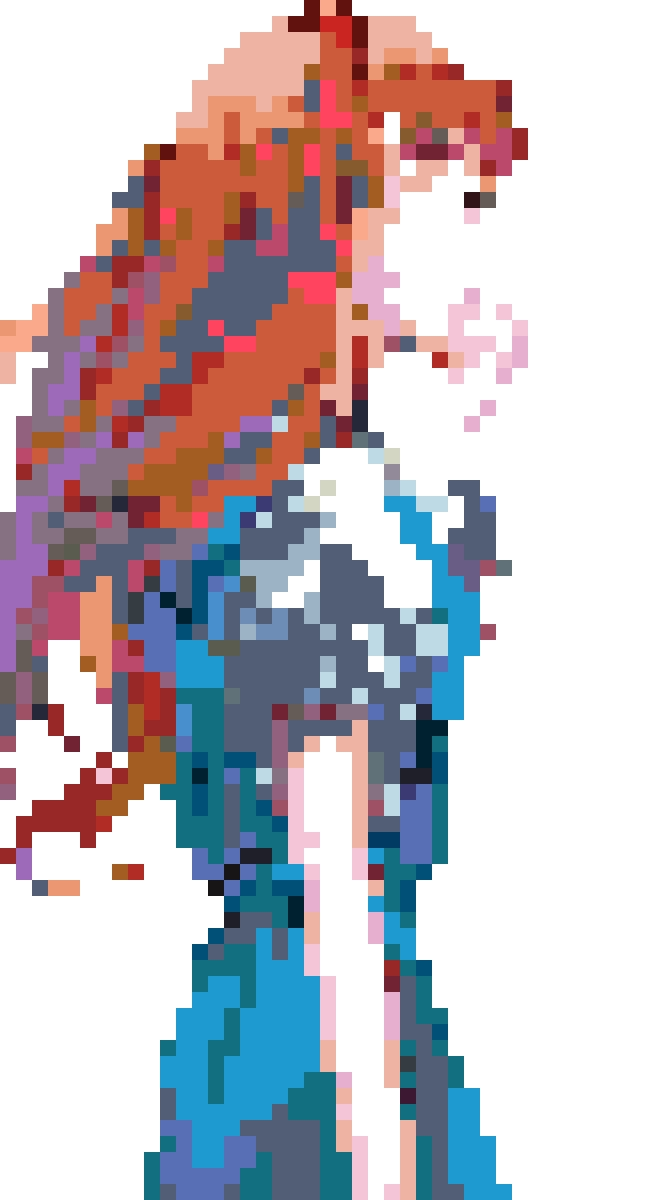
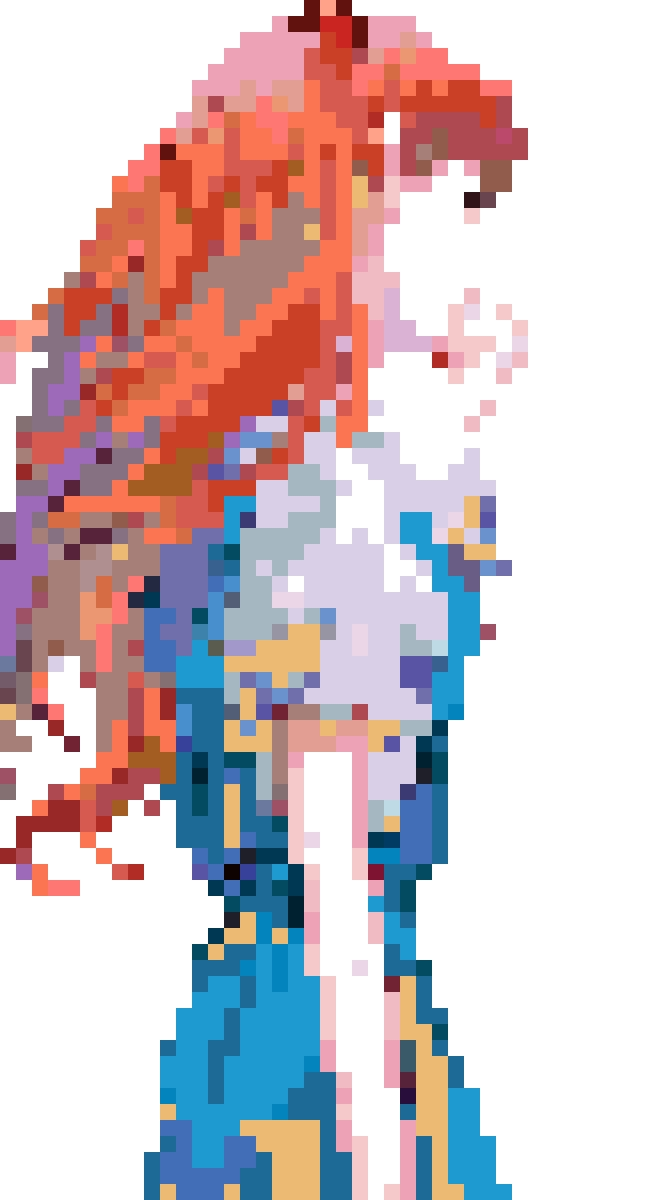
add more color samples; add comparison part in the DEMO

diff --git a/README.md b/README.md
@@ -37,18 +37,18 @@ Image via
 [Amoc](https://www.pixiv.net/en/artworks/81363989)
 , PIXIV ID: 4093391
 
-###### default setting
-![Default setting](./DEMO/default.jpg)
-###### bins = 4
-![bins = 4](./DEMO/bins4.jpg)
-###### height = 8
-![height = 8](./DEMO/height8.jpg)
-###### width = 8
-![width = 8](./DEMO/width8.jpg)
-###### option = "hellinger"
-![hellinger](./DEMO/hellinger.jpg)
-###### sampled with photo, width = 26
+###### bins = 4 | 8 | 16
+![bin comparison](./DEMO/bin.jpg)
+
+###### height, width = 8, 16 | 16, 16 | 16, 8
+![size comparison](./DEMO/size.jpg)
+
+###### option =  Correlation | Chi-squared | Intersection | Hellinger
+![method comparison](./DEMO/option.jpg)
+
+###### sampled with photo; height, width = 16, 26
 ![sampledWithPhoto](./DEMO/smapledWithPhoto.jpg)
+
 ### Reference
 - https://www.pyimagesearch.com/2014/07/14/3-ways-compare-histograms-using-opencv-python/
 - https://www.pyimagesearch.com/2014/01/22/clever-girl-a-guide-to-utilizing-color-histograms-for-computer-vision-and-image-search-engines/
